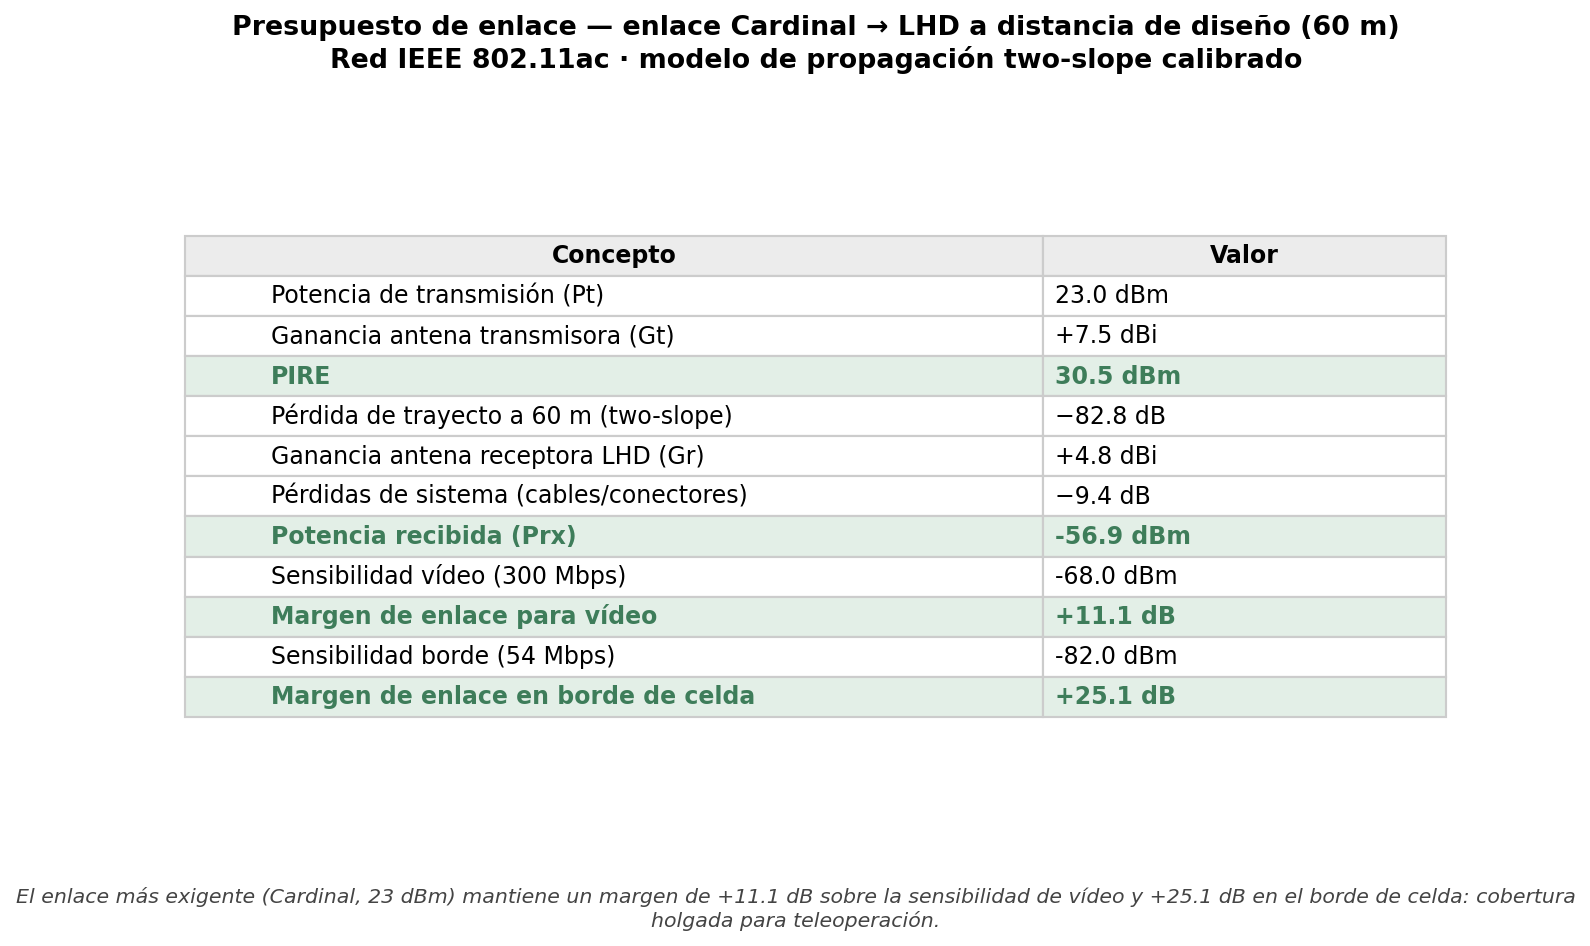
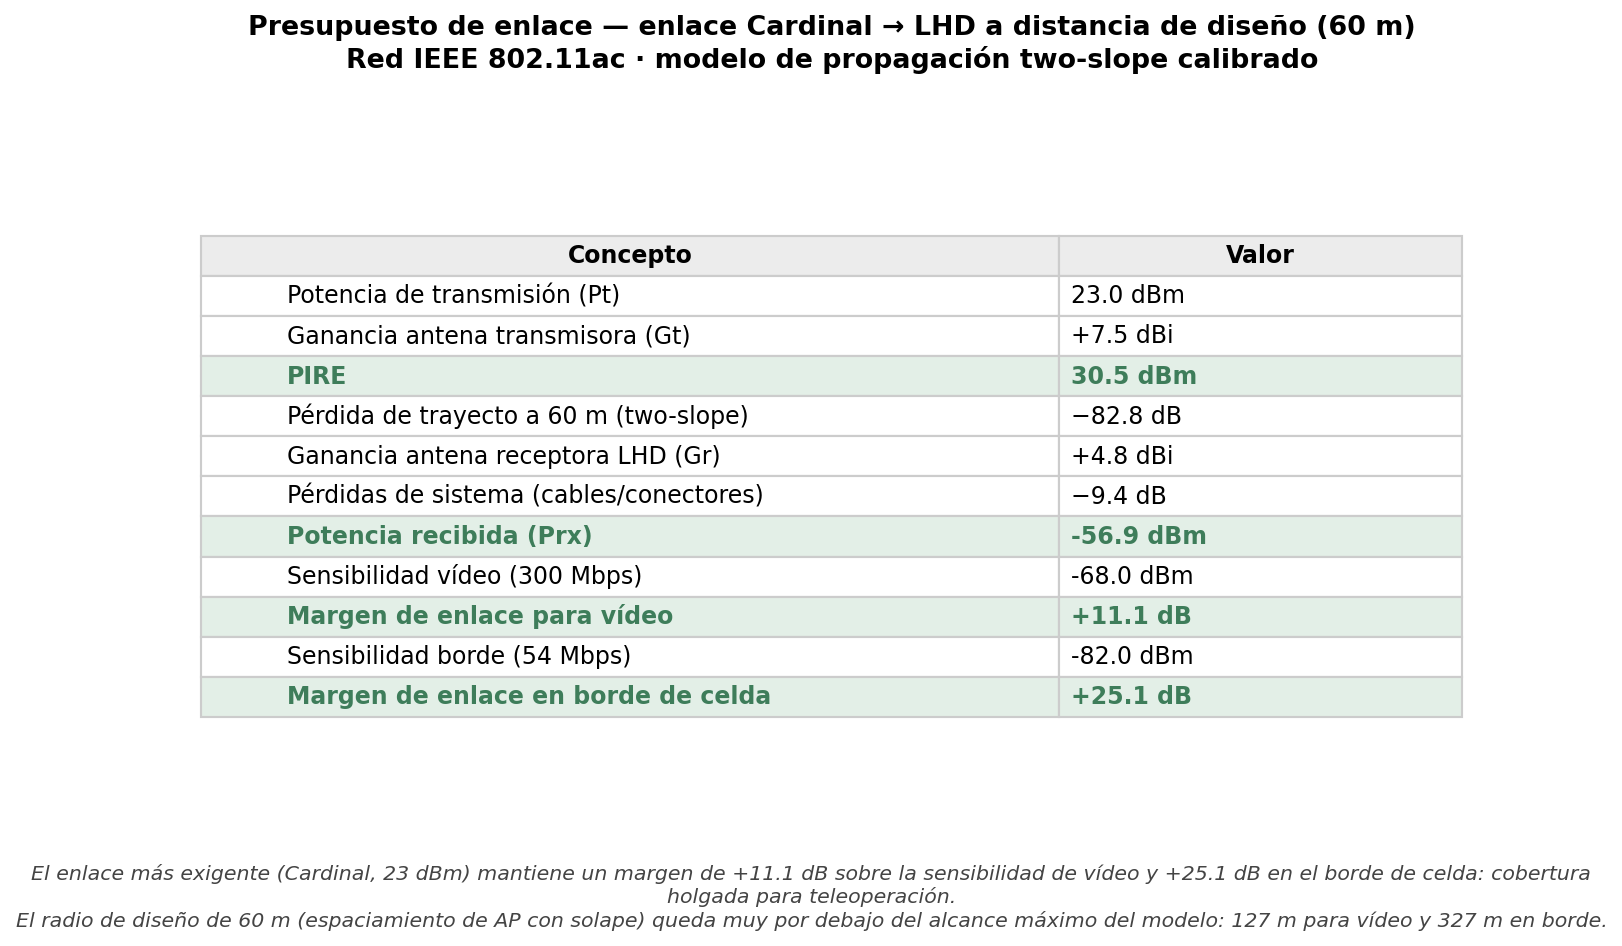
Auditoría final (Fable): 5 hallazgos resueltos — precisión de métricas y supuestos documentados
F1 - Goodput exacto: (rxBytes - 28B/paquete) en vez de asumir payload fijo;
     con VBR el último paquete de cada frame es menor => el goodput de vídeo
     estaba sobreestimado ~0.5-0.8% (sin cambiar ningún veredicto de KPI).
F2 - pos_log honesto: la columna "serving_ap" era en realidad el MEJOR AP
     predicho, no el AP asociado. Ahora: best_ap/rssi_dbm (cobertura) +
     assoc_ap/rssi_assoc_dbm (asociación real). Etiquetas de figuras
     corregidas ("AP servidor" -> "mejor AP"); lectores compatibles con ambos
     esquemas; textos de figuras ahora dinámicos (n corridas, reasociaciones).
F3 - COBERTURA_AP=60m justificado: era un TODO "a ajustar con datasheet".
     link_budget.py ahora calcula los radios máximos del modelo (vídeo 127 m,
     borde 327 m) => el radio de diseño 60 m queda holgado (2.1x) y trazado.
F4 - RouteDistance documentado como supuesto físico deliberado y conservador:
     a 5 GHz el pilar de roca de ~26 m entre galerías bloquea el rayo directo
     y los drawbells van cargados de mineral => la señal solo viaja por
     labores abiertas (galerías + cruceros). No cambia el comportamiento.
F5 - Eliminado "100% >= -68 dBm" hardcodeado en el título de una figura;
     ahora se calcula de los datos (nunca texto fijo que pueda quedar falso).

Además: la duración real de la batería es ~3 h (10714 s medidos), no 30-35
min como decía el traspaso; corregido en TRASPASO_CONTEXTO.md y el script,
[…]

diff --git a/cap3/simulacion_ns3/lhd-teleop-v3-real.cc b/cap3/simulacion_ns3/lhd-teleop-v3-real.cc
@@ -70,6 +70,19 @@ static int GalIndex (double x)
 }
 
 // Distancia por ruta de túnel entre dos puntos (x1,y1)-(x2,y2).
+//
+// SUPUESTO FÍSICO (deliberado y conservador): a 5 GHz la señal NO atraviesa el
+// pilar de roca maciza de ~26 m que separa las galerías paralelas (la atenuación
+// de la roca es de decenas de dB/m => bloqueo total del rayo directo). Las zanjas
+// y drawbells que conectan calles vecinas tampoco se cuentan como camino RF,
+// porque en block caving operativo están cargados de mineral fragmentado (esa es
+// su función). Por tanto la señal solo viaja por las labores ABIERTAS: a lo largo
+// de la propia galería (LOS) y, entre galerías distintas, RODEANDO por los
+// cruceros, con una penalización de 10 dB por galería cruzada (difracción en
+// esquinas). Consecuencia: se subestima el RSSI de los AP situados a media altura
+// de galerías vecinas => el modelo es CONSERVADOR para cobertura y handover
+// (el AP servidor está casi siempre en la misma galería y no se ve afectado).
+//
 // Misma galería: |dy| + desvíos a la galería. Distinta: sube/baja al crucero
 // más cercano (Y_BASE o Y_TOP), cruza en X, y baja/sube.
 static double RouteDistance (double x1, double y1, double x2, double y2)
@@ -332,14 +345,19 @@ void OnDeAssoc (Mac48Address a)
     g_assocLog<<std::fixed<<std::setprecision(2)<<t<<",deassoc,"<<id<<","<<p.x<<","<<p.y<<",0\n"; }
 }
 
-// RSSI estimado del mejor AP (para el pos_log) — usa los MISMOS parámetros que
+// RSSI estimado por posición (para el pos_log) — usa los MISMOS parámetros que
 // DoCalcRxPower (leídos de g_loss) en vez de duplicar constantes, para que no
 // puedan desincronizarse si el modelo de propagación cambia de atributos.
+// Registra DOS cosas distintas (y las nombra con precisión):
+//   best_ap / rssi_dbm         = el AP de MEJOR señal en esa posición (cobertura
+//                                 disponible; base de la disponibilidad RNF-06).
+//   assoc_ap / rssi_assoc_dbm  = el AP al que el STA está ASOCIADO realmente en
+//                                 ese instante (con roaming estable pueden diferir).
 static void PosLog ()
 {
   double t=Simulator::Now().GetSeconds();
   Vector p=g_lhdMob->GetPosition();
-  double best=-999; std::string bid="?";
+  double best=-999, rssiAssoc=-999; std::string bid="?";
   double expLos=g_loss->GetExpLos(), expNlos=g_loss->GetExpNlos();
   double freq=g_loss->GetFreqHz(), dbp=g_loss->GetDbp(), sysLoss=g_loss->GetSystemLossDb();
   double lam=3.0e8/freq, plD0=20.0*std::log10(4.0*M_PI/lam);
@@ -350,8 +368,10 @@ static void PosLog ()
     pl += NLOS_PENAL_DB*CrucesNlos(p.x,ap.x);
     double rssi=ap.ptdbm+ap.gtdbi+rf::LHD_GR_DBI-pl-sysLoss;   // Gr LHD (HELI-40)
     if(rssi>best){best=rssi;bid=ap.id;}
+    if(ap.id==g_lastAp) rssiAssoc=rssi;
   }
-  g_posLog<<std::fixed<<std::setprecision(2)<<t<<","<<p.x<<","<<p.y<<","<<bid<<","<<best<<"\n";
+  g_posLog<<std::fixed<<std::setprecision(2)<<t<<","<<p.x<<","<<p.y<<","<<bid<<","<<best
+          <<","<<(g_lastAp.empty()?"?":g_lastAp)<<","<<rssiAssoc<<"\n";
   g_rssiTotal++; if(best>=RSSI_USABLE_DBM) g_rssiOk++;   // muestra para disponibilidad
   Simulator::Schedule(Seconds(1.0),&PosLog);
 }
@@ -583,7 +603,7 @@ int main (int argc, char *argv[])
   // ── Logs de posición/assoc ──
   if(isMobility){
     g_posLog.open("results/"+scenario+"_v3_pos_log.csv");
-    g_posLog<<"time_s,x,y,serving_ap,rssi_dbm\n";
+    g_posLog<<"time_s,x,y,best_ap,rssi_dbm,assoc_ap,rssi_assoc_dbm\n";
     Simulator::Schedule(Seconds(tStart),&PosLog);
     g_assocLog.open("results/"+scenario+"_v3_assoc_log.csv");
     g_assocLog<<"time_s,event,ap_id,x,y,handover_ms\n";
@@ -621,12 +641,16 @@ int main (int argc, char *argv[])
     // ancho de bin en ms (coincide con el DelayBinWidth/JitterBinWidth = 0.05 ms)
     auto dv=HistToSamples(fs.delayHistogram,0.05); auto jv=HistToSamples(fs.jitterHistogram,0.05);
     double owdP95=Percentile(dv,95.0), jitP95=Percentile(jv,95.0);
-    std::string name="Other"; double codecAdd=0; uint32_t pktPay=0;
-    if(ft.destinationPort==vidPort){name="Video";codecAdd=codecMs;pktPay=1400;}
-    else if(ft.destinationPort==cmdPort){name="Comandos";pktPay=128;}
-    else if(ft.destinationPort==telPort){name="Telemetria";pktPay=200;}
+    std::string name="Other"; double codecAdd=0;
+    if(ft.destinationPort==vidPort){name="Video";codecAdd=codecMs;}
+    else if(ft.destinationPort==cmdPort){name="Comandos";}
+    else if(ft.destinationPort==telPort){name="Telemetria";}
     else continue;
-    double goodput=(dur>0&&rxP>0)?(double)rxP*pktPay*8.0/dur/1e6:0.0;
+    // Goodput = payload de aplicación recibido: bytes IP menos cabeceras IP+UDP
+    // (28 B/paquete). Exacto también con VBR, donde el último paquete de cada
+    // frame es menor que la MTU (antes se asumía un tamaño fijo por paquete, lo
+    // que sobreestimaba el goodput de vídeo ~0.8%).
+    double goodput=(dur>0&&rxP>0)?((double)fs.rxBytes-28.0*rxP)*8.0/dur/1e6:0.0;
     double e2e=owd+codecAdd;
     std::cout<<"\n["<<name<<"] tx="<<(uint32_t)txP<<" rx="<<(uint32_t)rxP
              <<" | OWD="<<std::fixed<<std::setprecision(2)<<owd<<"ms P95="<<owdP95

diff --git a/cap3/simulacion_ns3/graficas_simulacion/resultados_v3.py b/cap3/simulacion_ns3/graficas_simulacion/resultados_v3.py
@@ -188,17 +188,19 @@ def load_assoc(path):
                 except: pass
     return ho
 # Agrega los handovers de TODAS las corridas del escenario de operación
-# (las 10 semillas + la corrida única) para una distribución representativa.
-ho=[]
+# (las semillas de la batería vigente) para una distribución representativa.
+ho=[]; n_runs=0
 for p in glob.glob(os.path.join(RES,"principal_s*_v3_assoc_log.csv")):
-    ho += load_assoc(p)
-# nº de traspasos de AP a nivel de señal (serving_ap) en el escenario de operación
+    ho += load_assoc(p); n_runs += 1
+# nº de traspasos de MEJOR señal (best_ap) en el escenario de operación — es el
+# cambio del AP de mayor RSSI a lo largo de la ruta, no la reasociación real del
+# STA (esa se mide con el assoc_log). Con roaming estable el STA cambia menos.
 def contar_cambios_ap(path):
     if not os.path.exists(path): return 0
     prev=None; n=0
     with open(path) as f:
         for r in csv.DictReader(f):
-            a=r["serving_ap"]
+            a=r.get("best_ap") or r["serving_ap"]
             if prev is not None and a!=prev: n+=1
             prev=a
     return n
@@ -220,10 +222,13 @@ axb.set_xlim(0,165); axb.set_ylim(-0.5,0.7); axb.set_yticks([])
 axb.set_xlabel("Tiempo de handover (ms)");
 for s in ["top","right","left"]: axb.spines[s].set_visible(False)
 # texto de conclusión
+reas = (f"solo se registró 1 reasociación con corte medible ({peor:.1f} ms)" if len(ho)==1
+        else f"se registraron {len(ho)} reasociaciones con corte medible (peor: {peor:.1f} ms)" if ho
+        else "no se registró ninguna reasociación con corte medible")
 txt=("El diseño emplea roaming L2 tipo mesh (Rajant InstaMesh, make-before-break): el enlace se\n"
-     f"mantiene durante el desplazamiento. A lo largo del recorrido el LHD es servido por distintos\n"
-     f"AP con {cambios} traspasos de mejor señal, y solo se registró {len(ho)} reasociación con corte medible\n"
-     f"({peor:.1f} ms), muy por debajo del requisito de 150 ms. Resultado agregado de 10 corridas.")
+     f"mantiene durante el desplazamiento. A lo largo de la ruta el mejor AP cambia {cambios} veces\n"
+     f"(traspasos de mejor señal), y {reas},\n"
+     f"muy por debajo del requisito de 150 ms. Resultado agregado de {n_runs} corridas.")
 fig.text(0.5,0.14,txt,ha="center",va="center",fontsize=10.5,color="#333")
 out3=os.path.join(HERE,"resultados_handover.png")
 plt.savefig(out3,dpi=155,bbox_inches="tight"); plt.close()
@@ -237,7 +242,9 @@ def load_pos(path):
     with open(path) as f:
         for r in csv.DictReader(f):
             T.append(float(r["time_s"]));X.append(float(r["x"]));Y.append(float(r["y"]))
-            AP.append(r["serving_ap"]);R.append(float(r["rssi_dbm"]))
+            # best_ap = AP de mejor señal (cobertura); "serving_ap" era el nombre
+            # antiguo (impreciso) de la misma columna — se acepta por compatibilidad.
+            AP.append(r.get("best_ap") or r["serving_ap"]);R.append(float(r["rssi_dbm"]))
     return np.array(T),np.array(X),np.array(Y),AP,np.array(R)
 pos_path=os.path.join(RES,OP_STEM+"_pos_log.csv")
 if os.path.exists(pos_path):
@@ -255,10 +262,10 @@ if os.path.exists(pos_path):
         m=np.array([s==a for s in AP]); ax1.scatter(T[m],R[m],s=14,color=col[a],label=a,zorder=3)
     ax1.axhline(-68,color="#B9770E",ls="--",lw=1.1); ax1.annotate("−68 dBm (300 Mbps)",(T.max(),-68),fontsize=8,ha="right",va="bottom",color="#B9770E")
     ax1.axhline(-82,color=C_BAD,ls=":",lw=1.1); ax1.annotate("−82 dBm (54 Mbps)",(T.max(),-82),fontsize=8,ha="right",va="bottom",color=C_BAD)
-    ax1.set_xlabel("Tiempo (s)");ax1.set_ylabel("RSSI del AP servidor (dBm)")
-    ax1.set_title("Nivel de señal y traspaso entre AP durante el recorrido")
+    ax1.set_xlabel("Tiempo (s)");ax1.set_ylabel("RSSI del mejor AP (dBm)")
+    ax1.set_title("Nivel de señal disponible y traspasos de mejor AP durante el recorrido")
     ax1.set_ylim(-92,-2);ax1.grid(True,alpha=0.3)
-    ax1.legend(ncol=3,fontsize=7.5,loc="lower left",framealpha=0.92,title=f"AP servidor ({len(aps_u)})",title_fontsize=8)
+    ax1.legend(ncol=3,fontsize=7.5,loc="lower left",framealpha=0.92,title=f"Mejor AP ({len(aps_u)})",title_fontsize=8)
     # CDF
     rs=np.sort(R);cdf=np.arange(1,len(rs)+1)/len(rs)*100
     ax2.plot(rs,cdf,color="#2C5D7C",lw=2.3);ax2.fill_between(rs,0,cdf,color=C_BAR,alpha=0.15)

diff --git a/cap3/simulacion_ns3/graficas_simulacion/kpis_v3real.py b/cap3/simulacion_ns3/graficas_simulacion/kpis_v3real.py
@@ -46,7 +46,9 @@ def load_pos_log(path):
     with open(path) as f:
         for r in csv.DictReader(f):
             t.append(float(r["time_s"])); x.append(float(r["x"])); y.append(float(r["y"]))
-            ap.append(r["serving_ap"]); rssi.append(float(r["rssi_dbm"]))
+            # best_ap = AP de mejor señal (cobertura); "serving_ap" era el nombre
+            # antiguo (impreciso) de la misma columna — se acepta por compatibilidad.
+            ap.append(r.get("best_ap") or r["serving_ap"]); rssi.append(float(r["rssi_dbm"]))
     return (np.array(t), np.array(x), np.array(y), ap, np.array(rssi))
 
 # Escenario de operación canónico: se usa una corrida de la batería vigente
@@ -100,11 +102,11 @@ ax1.axhline(-68, color="#E67E22", ls="--", lw=1.1)
 ax1.annotate("-68 dBm (300 Mbps)", (T.max(), -68), fontsize=8, color="#B9770E", ha="right", va="bottom")
 ax1.axhline(-82, color="#C0392B", ls=":", lw=1.1)
 ax1.annotate("-82 dBm (54 Mbps)", (T.max(), -82), fontsize=8, color="#C0392B", ha="right", va="bottom")
-ax1.set_xlabel("Tiempo (s)"); ax1.set_ylabel("RSSI del AP servidor (dBm)")
-ax1.set_title("RSSI y roaming a lo largo del recorrido")
+ax1.set_xlabel("Tiempo (s)"); ax1.set_ylabel("RSSI del mejor AP (dBm)")
+ax1.set_title("Nivel de señal disponible a lo largo del recorrido")
 ax1.set_ylim(-92, -2); ax1.grid(True, alpha=0.3)
 ax1.legend(ncol=3, fontsize=7.5, loc="lower left", framealpha=0.92,
-           title=f"AP servidor ({len(aps_unicos)} APs)", title_fontsize=8)
+           title=f"Mejor AP ({len(aps_unicos)} APs)", title_fontsize=8)
 
 # --- (2) tabla de KPIs con semáforo ---
 ax2 = fig.add_subplot(gs[0, 1]); ax2.axis("off")
@@ -216,8 +218,11 @@ leg = [Line2D([0],[0], marker="^", color="none", markerfacecolor="#1565C0", mark
        Line2D([0],[0], marker="s", color="none", markerfacecolor="#7B1FA2", markeredgecolor="#fff", markersize=11, label="AP Cardinal (23 dBm)"),
        Line2D([0],[0], marker="o", color="none", markerfacecolor="#0C5B41", markersize=8, label="Drawpoint")]
 axB.legend(handles=leg, loc="upper left", fontsize=9, framealpha=0.92)
+# % del recorrido con señal >= -68 dBm CALCULADO de los datos (nunca hardcodeado)
+pct68 = (RSSI >= -68).mean()*100
 axB.set_title("Recorrido real del LHD en la zona de producción coloreado por RSSI — NV1640\n"
-              f"RSSI entre {RSSI.max():.0f} y {RSSI.min():.0f} dBm · 100% ≥ -68 dBm (soporta vídeo 40 Mbps)",
+              f"RSSI entre {RSSI.max():.0f} y {RSSI.min():.0f} dBm · "
+              f"{pct68:.0f}% ≥ -68 dBm (soporta vídeo 40 Mbps)",
               fontsize=12.5, fontweight="bold")
 axB.set_xlabel("X (m)"); axB.set_ylabel("Y (m)"); axB.set_aspect("equal")
 axB.autoscale(); axB.grid(True, alpha=0.25)
@@ -232,4 +237,4 @@ for grp, lbl, key, thr, op in KPI_DEF:
     print(f"  {grp:11s} {lbl:16s} = {val:8.3f}  ({op}{thr:g})  {'CUMPLE' if ok else 'NO'}")
 print(f"\nGLOBAL: {'TODOS CUMPLEN' if glob else 'ALGUNOS NO CUMPLEN'}")
 print(f"RSSI recorrido: min {RSSI.min():.1f} / media {RSSI.mean():.1f} / max {RSSI.max():.1f} dBm")
-print(f"APs que sirvieron: {len(aps_unicos)} | cambios de AP: {sum(1 for i in range(1,len(AP)) if AP[i]!=AP[i-1])}")
+print(f"APs de mejor señal: {len(aps_unicos)} | traspasos de mejor señal: {sum(1 for i in range(1,len(AP)) if AP[i]!=AP[i-1])}")

diff --git a/cap3/simulacion_ns3/graficas_simulacion/link_budget.py b/cap3/simulacion_ns3/graficas_simulacion/link_budget.py
@@ -45,6 +45,15 @@ def path_loss(d):
     if d < D_BP: return PL_D0 + 10 * N1 * np.log10(d)
     return PL_D0 + 10 * N1 * np.log10(D_BP) + 10 * N2 * np.log10(d / D_BP)
 
+def radio_max(tx_dbm, gt_dbi, sens_dbm):
+    """Distancia a la que Prx cae hasta la sensibilidad dada (invierte el two-slope).
+    Justifica el radio de diseño COBERTURA_AP: debe ser << que este radio máximo."""
+    pl_adm = tx_dbm + gt_dbi + GR_LHD - L_SYS - sens_dbm   # pérdida de trayecto admisible
+    pl_bp  = PL_D0 + 10 * N1 * np.log10(D_BP)              # pérdida en el breakpoint
+    if pl_adm <= pl_bp:
+        return 10 ** ((pl_adm - PL_D0) / (10 * N1))
+    return D_BP * 10 ** ((pl_adm - pl_bp) / (10 * N2))
+
 def link(tx_dbm, gt_dbi, d):
     pire = tx_dbm + gt_dbi                       # PIRE (sin pérdidas de sistema tx)
     pl = path_loss(d)
@@ -58,7 +67,16 @@ casos = [
 ]
 
 print(f"Distancia de diseño (radio cobertura AP): {D_DISENO:.0f} m")
-print(f"Pérdida de trayecto a {D_DISENO:.0f} m: {path_loss(D_DISENO):.1f} dB\n")
+print(f"Pérdida de trayecto a {D_DISENO:.0f} m: {path_loss(D_DISENO):.1f} dB")
+# radios máximos de cobertura del modelo para el enlace más exigente (Cardinal):
+# demuestran que el radio de diseño (60 m) está holgadamente dentro del alcance.
+_txc, _gtc = RF.CARDINAL["tx_power_dbm"], RF.CARDINAL["tx_gain_dbi"]
+R_VIDEO = radio_max(_txc, _gtc, SENS_VIDEO)
+R_BORDE = radio_max(_txc, _gtc, SENS_BORDE)
+print(f"Radio máx. del modelo (Cardinal→LHD): vídeo ({SENS_VIDEO:.0f} dBm) = {R_VIDEO:.0f} m"
+      f" | borde ({SENS_BORDE:.0f} dBm) = {R_BORDE:.0f} m")
+print(f"=> el radio de diseño ({D_DISENO:.0f} m) es {R_VIDEO/D_DISENO:.1f}x menor que el"
+      f" radio máximo de vídeo: cobertura con holgura.\n")
 
 # ---------------- construir tabla de link budget ----------------
 # filas del balance (comunes) + por enlace las específicas
@@ -115,7 +133,9 @@ ax.set_title("Presupuesto de enlace — enlace Cardinal → LHD a distancia de d
 plt.figtext(0.5, 0.03,
     f"El enlace más exigente (Cardinal, 23 dBm) mantiene un margen de "
     f"+{prx - SENS_VIDEO:.1f} dB sobre la sensibilidad de vídeo y "
-    f"+{prx - SENS_BORDE:.1f} dB en el borde de celda: cobertura holgada para teleoperación.",
+    f"+{prx - SENS_BORDE:.1f} dB en el borde de celda: cobertura holgada para teleoperación.\n"
+    f"El radio de diseño de {D_DISENO:.0f} m (espaciamiento de AP con solape) queda muy por "
+    f"debajo del alcance máximo del modelo: {R_VIDEO:.0f} m para vídeo y {R_BORDE:.0f} m en borde.",
     ha="center", fontsize=9.5, style="italic", color="#444", wrap=True)
 out = os.path.join(HERE, "link_budget.png")
 plt.savefig(out, dpi=155, bbox_inches="tight"); plt.close()

diff --git a/cap3/simulacion_ns3/graficas_simulacion/mapa_nv1640_datos.py b/cap3/simulacion_ns3/graficas_simulacion/mapa_nv1640_datos.py
@@ -137,4 +137,11 @@ CARDINALS_AP = [   # AP Cardinal (breadcrumbs, menor potencia)
     (52.0,  38.5),  # C6
     (52.4, 129.7),  # C7
 ]
-COBERTURA_AP = 60.0   # m — radio de cobertura usado por el usuario (a ajustar con datasheet)
+# Radio de DISEÑO de celda (m): distancia de trabajo asumida entre un AP y el LHD,
+# coherente con el espaciamiento real de los 12 AP a lo largo de las galerías
+# (~40-50 m entre AP consecutivos => solape de celdas con radio 60 m). NO es un
+# dato de datasheet: es un criterio de diseño, VERIFICADO en link_budget.py, que
+# calcula que a 60 m el enlace más exigente (Cardinal→LHD) conserva margen positivo
+# sobre la sensibilidad de vídeo, y que el radio máximo del modelo two-slope es
+# bastante mayor (se imprime al ejecutar link_budget.py).
+COBERTURA_AP = 60.0

diff --git a/TRASPASO_CONTEXTO.md b/TRASPASO_CONTEXTO.md
@@ -61,7 +61,12 @@
 - **IMPORTANTE (aprendido):** las simulaciones **NO se pueden paralelizar** en este WSL
   (tanto el binario directo como varios `./ns3 run` a la vez se CUELGAN por contención
   del directorio de build de ns-3). Se corren **EN SERIE**. La batería completa (14
-  corridas de 300 s) tarda ~30-35 min. Es lento pero 100% fiable.
+  corridas de 300 s) tarda **~3 HORAS** (medido: 10714 s el 2026-07-09; una versión
+  anterior de este documento decía 30-35 min por error). Es lento pero 100% fiable.
+- **Lanzar la batería en background desde Windows:** usar `setsid nohup ... < /dev/null &`
+  y VERIFICAR con `pgrep` que el proceso vive antes de dar por lanzado. Un `nohup ... &`
+  simple dentro de `wsl.exe -e bash -c "..."` MUERE al cerrar la sesión (aprendido:
+  un lanzamiento falló silenciosamente y el log viejo dio un falso "completado").
 - La batería se lanza con `nohup` y se monitorea leyendo `~/bateria_v3.log`:
   ```bash
   cp run_escenarios_v3.sh ~/ && cd ~ && nohup bash run_escenarios_v3.sh > ~/bateria_v3.log 2>&1 &
